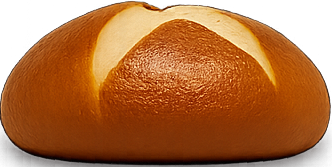
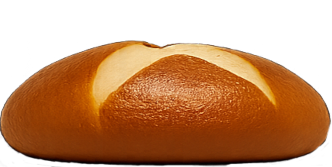
Added ability to change the top and bottom spacing on items
- Added a height field and stack offset field so that the position
  relative to the item above and below can be changed seperatly
- Added some item images
Issues
- The item list is incomplete, when the db gets an updated list of items
  there will be missing images

diff --git a/main/frontend/src/components/BurgerImage.vue b/main/frontend/src/components/BurgerImage.vue
@@ -20,119 +20,148 @@ const props = defineProps({
     },
 });
 
+// Define the image sources and dimensions for each item type
+// src: image source for the item
+// imageHeight: sets how far down the image is displayed from the item above it
+// stackOffset: adjust how much the item is covered by the item above it 
 const itemImageMap = {
     buns: {
         "Whole Wheat": {
             0: {
                 "src": '/images/items/whole_wheat_bun_bottom.png',
-                "height": 100,
+                "imageHeight": 50,
+                "stackOffset": 15,
             },
             1: {
                 "src": '/images/items/whole_wheat_bun_top.png',
-                "height": 120,
+                "imageHeight": 100,
+                "stackOffset": 0,
             },
         },
         "Sesame": {
             0: {
                 "src": '/images/items/sesame_bun_bottom.png',
-                "height": 100,
+                "imageHeight": 40,
+                "stackOffset": 0,
             },
             1: {
                 "src": '/images/items/sesame_bun_top.png',
-                "height": 80,
+                "imageHeight": 80,
+                "stackOffset": -10,
             },
         },
         "Brioche": {
             0: {
                 "src": '/images/items/brioche_bun_bottom.png',
-                "height": 100,
+                "imageHeight": 50,
+                "stackOffset": 15,
             },
             1: {
                 "src": '/images/items/brioche_bun_top.png',
-                "height": 140,
+                "imageHeight": 130,
+                "stackOffset": 0,
             },
         },
         "None": {
             0: {
                 "src": '/images/items/blank_png.png',
-                "height": 0,
+                "imageHeight": 0,
+                "stackOffset": 0,
             },
             1: {
                 "src": '/images/items/blank_png.png',
-                "height": 0,
+                "imageHeight": 0,
+                "stackOffset": 0,
             },
         },
     },
     patties: {
         "Beef": {
             "src": '/images/items/beef_patty.png',
-            "height": 70,
+            "imageHeight": 70,
+            "stackOffset": 0,
         },
         "Chicken": {
             "src": '/images/items/chicken_patty.png',
-            "height": 65,
+            "imageHeight": 55,
+            "stackOffset": 5,
         },
         "Veggie": {
             "src": '/images/items/veggie_patty.png',
-            "height": 70,
+            "imageHeight": 70,
+            "stackOffset": 0,
         },
         "None": {
             "src": '/images/items/blank_png.png',
-            "height": 0,
+            "imageHeight": 0,
+            "stackOffset": 0,
         },
     },
     toppings: {
         "Lettuce": {
             "src": '/images/items/lettuce.png',
-            "height": 35,
+            "imageHeight": 65,
+            "stackOffset": 10,
         },
         "Tomato": {
             "src": '/images/items/tomato.png',
-            "height": 20,
+            "imageHeight": 10,
+            "stackOffset": -10,
         },
         "Onion": {
             "src": '/images/items/onion.png',
-            "height": 10,
+            "imageHeight": 10,
+            "stackOffset": -15,
         },
         "Pickles": {
             "src": '/images/items/pickels.png',
-            "height": 10,
+            "imageHeight": 15,
+            "stackOffset": -15,
         },
         "Cheese": {
             "src": '/images/items/cheese.png',
-            "height": 10,
+            "imageHeight": 5,
+            "stackOffset": 5,
         },
         "Bacon": {
             "src": '/images/items/bacon.png',
-            "height": 30,
+            "imageHeight": 20,
+            "stackOffset": 10,
         },
         "Jalapenos": {
             "src": '/images/items/jalepeno.png',
-            "height": 20,
+            "imageHeight": 20,
+            "stackOffset": 0,
         },
         "Mushrooms": {
             "src": '/images/items/mushroom.png',
-            "height": 10,
+            "imageHeight": 10,
+            "stackOffset": 0,
         },
         "Ketchup": {
             "src": '/images/items/ketchup.png',
-            "height": 5,
+            "imageHeight": 5,
+            "stackOffset": 0,
         },
         "Mustard": {
             "src": '/images/items/mustard.png',
-            "height": 5,
+            "imageHeight": 5,
+            "stackOffset": 0,
         },
         "Mayonnaise": {
             "src": '/images/items/mayonnaise.png',
-            "height": 5,
+            "imageHeight": 5,
+            "stackOffset": 0,
         },
         "Avocado": {
             "src": '/images/items/avocado.png',
-            "height": 15,
+            "imageHeight": 0,
+            "stackOffset": 5,
         },
         "None": {
             "src": '/images/items/blank_png.png',
-            "height": 0,
+            "imageHeight": 0,
+            "stackOffset": 0,
         },
     },
 };
@@ -147,11 +176,11 @@ const positionedItemStack = computed(() => {
         const positionedItem = {
             ...item,
             key: `${item.alt}-${index}`,
-            top: currentY,
+            top: currentY - item.stackOffset,
             zIndex: totalItems - index,
         };
 
-        currentY += item.height;
+        currentY += item.imageHeight;
         return positionedItem;
     });
 });
@@ -162,7 +191,7 @@ const stackCanvasHeight = computed(() => {
     }
 
     const lastItem = positionedItemStack.value[positionedItemStack.value.length - 1];
-    return Math.max(lastItem.top + lastItem.height, 320);
+    return Math.max(lastItem.top + lastItem.imageHeight + 50, 320);
 });
 
 watch(
@@ -180,7 +209,9 @@ watch(
         if (selectedToppings.length > 0) {
             for (const topping of selectedToppings) {
                 for (toppingCount = 0; toppingCount < topping.quantity; toppingCount++) {
-                    reversedToppings.push(getTopping(topping.name));
+                    let item = getTopping(topping.name);
+                    item.isFlipped = toppingCount % 2 === 1;
+                    reversedToppings.push(item);
                 }
             }
             stack.push(...reversedToppings.reverse());
@@ -203,37 +234,31 @@ watch(
 
 function getBunTop(bun){
     if (!bun) return null;
-    return {
-        src: itemImageMap.buns[bun][0].src,
-        height: itemImageMap.buns[bun][0].height,
-        alt: `Image of ${bun} bun top`,
-    };
+    return createStackItem(itemImageMap.buns[bun][0], `Image of ${bun} bun top`);
 }
 
 function getBunBottom(bun){
     if (!bun) return null;
-    return {
-        src: itemImageMap.buns[bun][1].src,
-        height: itemImageMap.buns[bun][1].height,
-        alt: `Image of ${bun} bun bottom`,
-    };
+    return createStackItem(itemImageMap.buns[bun][1], `Image of ${bun} bun bottom`);
 }
 
 function getPatty(patty){
     if (!patty) return null;
-    return {
-        src: itemImageMap.patties[patty].src,
-        height: itemImageMap.patties[patty].height,
-        alt: `Image of ${patty}`,
-    };
+    return createStackItem(itemImageMap.patties[patty], `Image of ${patty}`);
 }
 
 function getTopping(topping){
     if (!topping) return null;
+    return createStackItem(itemImageMap.toppings[topping], `Image of ${topping}`);
+}
+
+function createStackItem(item, alt){
     return {
-        src: itemImageMap.toppings[topping].src,
-        height: itemImageMap.toppings[topping].height,
-        alt: `Image of ${topping}`,
+        src: item.src,
+        imageHeight: item.imageHeight,
+        stackOffset: item.stackOffset,
+        isFlipped: false,
+        alt,
     };
 }
 
@@ -252,6 +277,7 @@ function getTopping(topping){
                 :src="item.src"
                 :alt="item.alt"
                 class="burger-layer"
+                :class="{ flipped: item.isFlipped }"
             />
         </div>
 
@@ -284,5 +310,8 @@ function getTopping(topping){
     display: block;
     width: 100%;
     height: auto;
+}
+.burger-layer.flipped {
+    transform: scaleX(-1);
 }
 </style>
